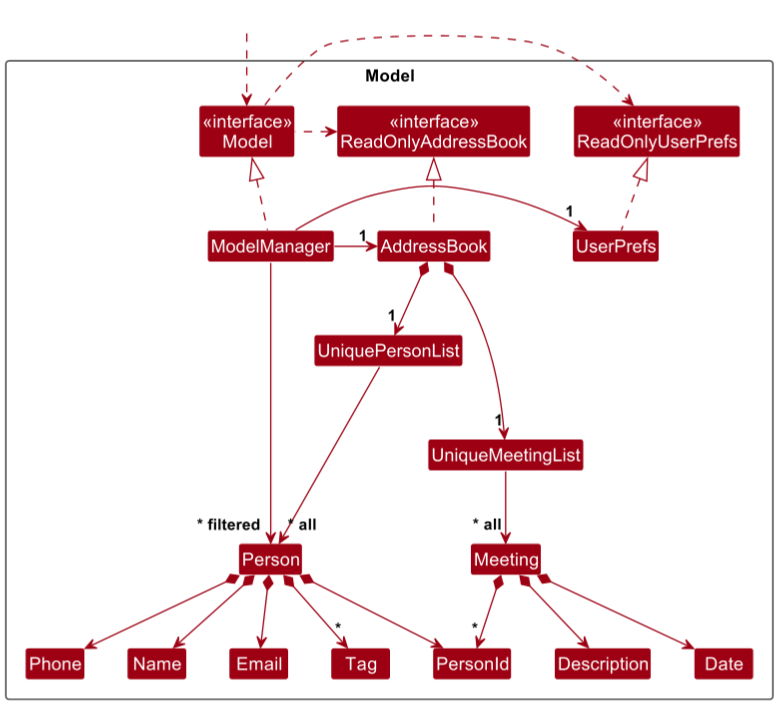
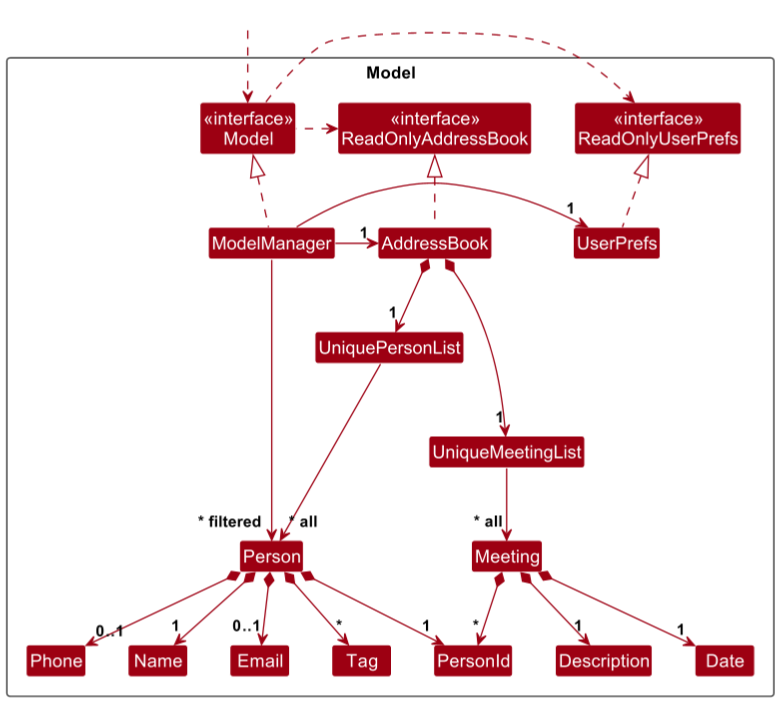
Update class diagram

diff --git a/docs/DeveloperGuide.md b/docs/DeveloperGuide.md
@@ -9,7 +9,7 @@ title: Developer Guide
 
 ## **Acknowledgements**
 
-* {list here sources of all reused/adapted ideas, code, documentation, and third-party libraries -- include links to the original source as well}
+* This project is based on the AddressBook-Level3 project created by the [SE-EDU initiative](https://se-education.org).
 
 --------------------------------------------------------------------------------------------------------------------
 
@@ -73,11 +73,13 @@ The **API** of this component is specified in [`Ui.java`](https://github.com/se-
 ![Structure of the UI Component](images/UiClassDiagram.png)
 
 The UI consists of a `MainWindow` that is made up of several parts such as `CommandBox`, `ResultDisplay`, `PersonListPanel`, `MeetingListPanel`, and `StatusBarFooter`.
+
 All these components, including the `MainWindow`, inherit from the abstract `UiPart` class, which captures the common functionality shared by GUI components.
+
 The `UI` component uses the JavaFx UI framework. The layout of these UI parts are defined in matching `.fxml` files that are in the `src/main/resources/view` folder.
 For example, the layout of the [`MainWindow`](https://github.com/se-edu/addressbook-level3/tree/master/src/main/java/seedu/address/ui/MainWindow.java) is specified in [`MainWindow.fxml`](https://github.com/se-edu/addressbook-level3/tree/master/src/main/resources/view/MainWindow.fxml)
 
-The `UI` component,
+The `UI` component:
 
 * executes user commands using the `Logic` component.
 * listens for changes to `Model` data so that the UI can be updated with the modified data.
@@ -119,19 +121,21 @@ How the parsing works:
 ### Model component
 **API** : [`Model.java`]([ModelClassDiagram.puml](diagrams/ModelClassDiagram.puml)https://github.com/se-edu/addressbook-level3/tree/master/src/main/java/seedu/address/model/Model.java)
 
-<img src="images/ModelClassDiagram.png" width="450" />
+<img src="images/ModelClassDiagram.png" width="450" /> <img src="images/CloserModelClassDiagram.png" width="450" />
 
 
 The `Model` component,
 
-* stores the address book data i.e., all `Person` objects (which are contained in a `UniquePersonList` object).
+* stores the address book data i.e., all `Person` objects (which are contained in a `UniquePersonList` object)
+and all `Meeting` objects (which are contained in a `UniqueMeetingList` object).
+
 * stores the currently 'selected' `Person` objects (e.g., results of a search query) as a separate _filtered_ list which is exposed to outsiders as an unmodifiable `ObservableList<Person>` that can be 'observed' e.g. the UI can be bound to this list so that the UI automatically updates when the data in the list change.
+
+* stores the currently 'selected' `Meeting` objects as a separate _filtered_ list which is exposed as an unmodifiable `ObservableList<Meeting>`that can be 'observed'.
+
 * stores a `UserPref` object that represents the user’s preferences. This is exposed to the outside as a `ReadOnlyUserPref` objects.
+
 * does not depend on any of the other three components (as the `Model` represents data entities of the domain, they should make sense on their own without depending on other components)
-
-<div markdown="span" class="alert alert-info">:information_source: **Note:** An alternative (arguably, a more OOP) model is given below. It has a `Tag` list in the `AddressBook`, which `Person` references. This allows `AddressBook` to only require one `Tag` object per unique tag, instead of each `Person` needing their own `Tag` objects.<br>
-
-<img src="images/BetterModelClassDiagram.png" width="450" />
 
 </div>
 
